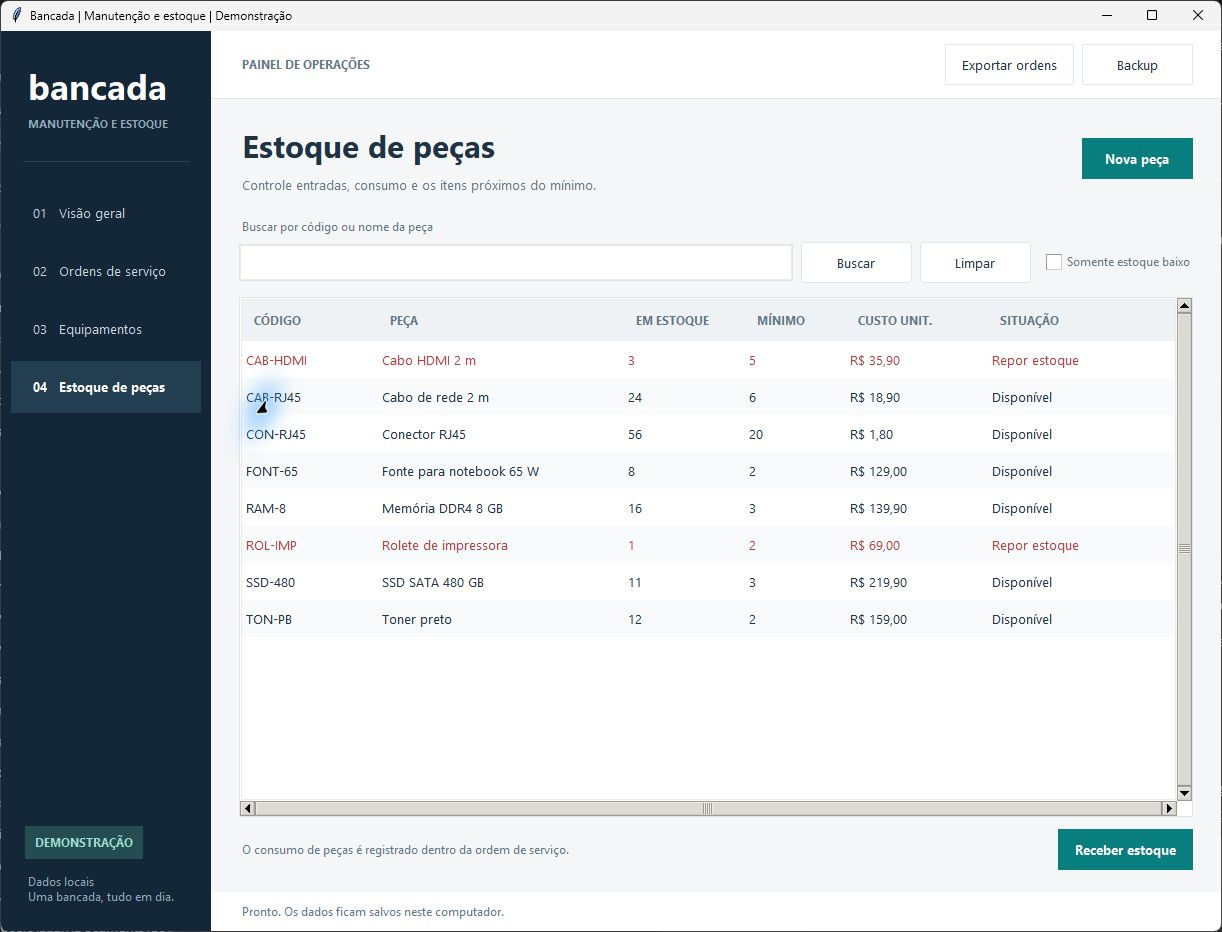
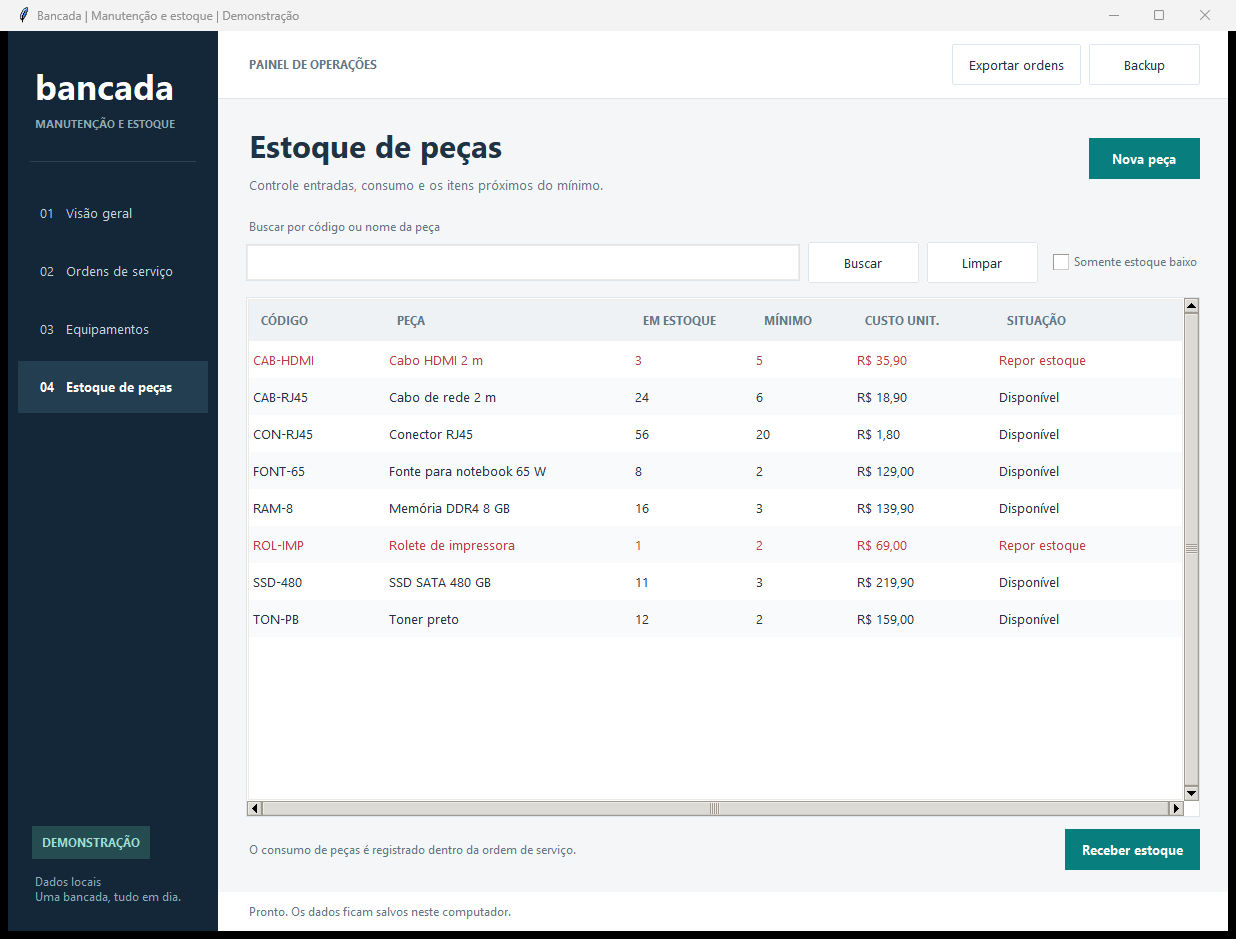
Adiciona GIF demonstrativo, novos prints das funcionalidades e atualiza README

diff --git a/README.md b/README.md
@@ -1,65 +1,142 @@
-# Bancada
+# 🛠 Bancada
 
-Gestão de manutenção de equipamentos com Python, SQLite e interface desktop. O projeto acompanha o atendimento desde a abertura da ordem até a resolução, incluindo peças utilizadas, movimentação de estoque e custos.
+[![Testes Python](https://github.com/LuanVictorz/bancada-python-sql/actions/workflows/tests.yml/badge.svg)](https://github.com/LuanVictorz/bancada-python-sql/actions)
+![Python 3.11+](https://img.shields.io/badge/Python-3.11%2B-3776AB?logo=python&logoColor=white)
+![SQLite](https://img.shields.io/badge/Banco-SQLite-003B57?logo=sqlite&logoColor=white)
+![Tkinter](https://img.shields.io/badge/Interface-Tkinter%20Desktop-203345)
+![Status](https://img.shields.io/badge/Status-Finalizado-087F7E)
 
-![Visão geral do Bancada com dados fictícios](docs/imagens/visao-geral.png)
+Gestão de manutenção de equipamentos com Python, SQLite e interface desktop. O projeto acompanha o ciclo de vida completo do atendimento — desde a abertura do chamado com SLA/prazo dinâmico até a resolução —, incluindo consumo e devolução de peças, histórico de auditoria e cálculo de custos.
 
-## O que dá para fazer
+![Demonstração do Bancada em Ação](docs/imagens/demonstracao-bancada.gif)
 
-- Cadastrar equipamentos, técnicos e peças.
-- Abrir ordens com prioridade e prazo de atendimento.
-- Iniciar, anotar, concluir ou cancelar uma ordem.
-- Registrar consumo e devolução de peças com atualização do estoque.
-- Consultar indicadores, custos e histórico de cada atendimento.
-- Exportar ordens para CSV e criar uma cópia consistente do banco.
+---
 
-O SQL está no modelo relacional, nas consultas de análise e nas operações da aplicação. O consumo de uma peça, a atualização do estoque e o registro no histórico fazem parte da mesma transação.
+## 📸 Demonstração das Funcionalidades
 
-## Executar
+### 1. Gestão de Ordens de Serviço (OS)
 
-Requisitos: Python 3.11 ou superior, com Tkinter. No Windows, a instalação padrão do Python inclui Tkinter e SQLite. Não há pacotes externos para instalar.
+O fluxo de ordens de serviço centraliza o diagnóstico, prazos e custos:
 
-Extraia o projeto, abra o terminal nessa pasta e execute:
+* **Fila de Atendimento e Filtros:** Lista todas as ordens com status (*Aberta*, *Em andamento*, *Concluída*, *Cancelada*), prioridade (*Alta*, *Média*, *Baixa*) e destaque em vermelho para chamados com prazo vencido.
+* **Criação de Novas Ordens:** O prazo de conclusão é calculado automaticamente de acordo com o nível de prioridade (Alta: 24h, Média: 72h, Baixa: 168h). É possível vincular o equipamento e o responsável técnico na abertura.
+
+![Lista de Ordens de Serviço](docs/imagens/ordens-servico.png)
+
+![Abertura de Nova Ordem de Serviço](docs/imagens/nova-ordem.png)
+
+#### Detalhes do Atendimento, Peças e Histórico:
+Ao abrir qualquer ordem, uma janela modal fornece visão em três abas completas:
+1. **Atendimento:** Informações do ativo, técnico responsável, datas, notas operacionais e botões para transição de status (*Iniciar atendimento*, *Adicionar nota*, *Concluir*, *Cancelar*).
+2. **Peças Utilizadas:** Registro de peças consumidas no atendimento. O sistema debita o saldo do estoque e recalcula instantaneamente o custo total da OS. Caso uma peça não seja usada, o botão *Devolver peça* restaura o saldo e abate o valor da ordem.
+3. **Histórico:** Trilha de eventos imutável registrando cada ação, troca de status e movimentação com data/hora.
+
+![Detalhes da Ordem - Aba Atendimento](docs/imagens/os-detalhes-atendimento.png)
+
+![Detalhes da Ordem - Aba Peças Utilizadas](docs/imagens/os-detalhes-pecas.png)
+
+![Detalhes da Ordem - Aba Histórico de Eventos](docs/imagens/os-detalhes-historico.png)
+
+---
+
+### 2. Controle de Estoque de Peças
+
+Controle de estoque relacional integrado diretamente com as ordens de manutenção:
+
+* **Alertas Visuais:** Indicação automática de *Repor estoque* em vermelho quando o saldo físico atinge ou fica abaixo do estoque mínimo definido.
+* **Cadastro de Peças:** Código SKU único, descrição, nível de estoque mínimo para disparo de alertas e custo unitário de referência.
+* **Receber Estoque:** Registro de entradas de reposição com quantidade, custo unitário atualizado e anotação de origem (nota fiscal ou fornecedor).
+
+![Estoque de Peças com Alertas](docs/imagens/estoque.png)
+
+![Cadastro de Nova Peça no Estoque](docs/imagens/nova-peca.png)
+
+![Registro de Entrada / Recebimento de Peças](docs/imagens/receber-estoque.png)
+
+---
+
+### 3. Gestão de Equipamentos e Ativos
+
+Mapeamento do parque de equipamentos atendidos pela bancada:
+
+* **Identificação Única:** Código de patrimônio/tag (ex: `NB-014`, `SRV-008`), nome, categoria e localização física (setor, sala ou rack).
+* **Controle de Disponibilidade:** Ativos inativos não podem receber novas ordens de serviço. Equipamentos com ordens em aberto não podem ser desativados acidentalmente.
+* **Acesso Rápido:** Botão direto para disparar uma nova ordem a partir do equipamento selecionado.
+
+![Listagem de Equipamentos](docs/imagens/equipamentos.png)
+
+![Cadastro de Novo Equipamento](docs/imagens/novo-equipamento.png)
+
+---
+
+### 4. Painel de Indicadores e Relatórios (Visão Geral)
+
+* **Cartões de Métricas:** Contagem de ordens ativas, chamados em atraso, itens em estoque crítico e custo total acumulado de ordens concluídas.
+* **Gráficos e Ranking:** Evolução mensal de atendimentos nos últimos seis meses e ranking dos equipamentos com maior custo de manutenção.
+* **Exportação e Backup:** Exportação de todas as ordens para arquivo `.csv` formatado e criação de cópia consistente do banco SQLite (`.sqlite3`) sem interromper a operação.
+
+![Visão Geral do Painel](docs/imagens/visao-geral.png)
+
+---
+
+## 🚀 Como Executar
+
+### Pré-requisitos
+* **Python 3.11 ou superior** com suporte a Tkinter (incluso por padrão na instalação oficial do Python para Windows).
+* Não há dependências externas nem necessidade de criar ambientes virtuais com `pip`.
+
+### Executando com Dados de Demonstração
+Para explorar o sistema com uma base de teste completa (12 equipamentos, 4 técnicos, 8 peças e 35 ordens pré-cadastradas):
 
 ```powershell
 python main.py --demo
 ```
 
-Isso abre a aplicação com dados fictícios. Na primeira execução são criados 12 equipamentos, 4 técnicos, 8 peças e 35 ordens. A demonstração mantém suas alterações nas próximas aberturas.
-
-Para iniciar com uma base vazia:
+### Executando em Modo Produção (Base Vazia)
+Para começar a cadastrar seus próprios dados a partir do zero:
 
 ```powershell
 python main.py
 ```
 
-No Windows, também é possível usar `executar.cmd` ou `executar.cmd --demo`. As duas bases ficam separadas na pasta `dados`.
+*Dica no Windows:* Você também pode simplesmente dar duplo clique em `executar.cmd` ou rodar `executar.cmd --demo`. Os arquivos do banco de dados ficam salvos de forma isolada na pasta `dados/`.
 
-## Testes
+---
+
+## 🧪 Testes Automatizados
+
+O projeto possui **58 testes automatizados** cobrindo integridade de banco de dados, transações atômicas, cálculos financeiros e regras de negócio da interface.
+
+Para rodar a suíte completa de testes no terminal:
 
 ```powershell
 python -m unittest discover -s tests -v
+```
+
+Para validar a integridade da base de dados sem abrir a janela:
+
+```powershell
 python main.py --demo --check
 ```
 
-A primeira instrução testa as regras com bases temporárias. A segunda confere a integridade da base de demonstração sem abrir a janela. O [registro de validação](docs/VALIDACAO.md) descreve os ambientes e as verificações executadas.
+*(O repositório inclui um pipeline no GitHub Actions que executa automaticamente todos os testes em ambientes Ubuntu e Windows para as versões 3.11, 3.12 e 3.14 do Python).*
 
-São 58 testes automatizados. O repositório também inclui um fluxo de GitHub Actions para repeti-los após a publicação.
+---
 
-## Decisões do projeto
+## 🏛 Decisões Técnicas e Arquitetura
 
-- **Dinheiro em centavos:** evita cálculos monetários com ponto flutuante.
-- **Custo registrado no consumo:** uma nova compra não altera o custo de ordens antigas.
-- **Transações explícitas:** uma falha não deixa estoque e ordem em situações diferentes.
-- **Regras fora da interface:** a janela usa a mesma camada de serviço dos testes e da demonstração.
-- **Histórico por ordem:** registra abertura, atendimento, peças, notas e encerramento.
+* **Dinheiro em Centavos:** Todos os valores monetários são representados como números inteiros em centavos no SQLite e nos cálculos, eliminando imprecisões de arredondamento inerentes a números de ponto flutuante (*floating point*).
+* **Histórico de Custo no Consumo:** Ao consumir uma peça em uma OS, o custo unitário vigente no momento é gravado de forma imutável na transação. Compras futuras com valores diferentes não distorcem o custo real de ordens já fechadas.
+* **Transações Atômicas (ACID):** O consumo de uma peça, a baixa no estoque e o registro do evento no histórico são executados sob a mesma transação com `BEGIN IMMEDIATE`. Caso ocorra qualquer falha, o sistema executa *rollback* automático.
+* **Camada de Serviço Desacoplada:** Toda a regra de negócio reside na camada `Service` (`app/service.py`), permitindo que a interface gráfica e a suíte de testes consumam exatamente os mesmos métodos.
+* **Rastreabilidade Total:** A tabela `os_historico` armazena cada mudança de status, anotação técnica e movimentação com data/hora.
 
-## Documentação
+---
 
-- [Primeira execução e exemplo completo](docs/USO.md)
-- [Modelo do banco e decisões de implementação](docs/ARQUITETURA.md)
-- [Consultas de análise](sql/reports.sql)
-- [Roteiro para estudar e modificar](docs/ESTUDO.md)
-- [Como publicar no GitHub](docs/PUBLICAR.md)
+## 📚 Documentação Complementar
 
-Esta versão é local, sem login nem sincronização entre computadores. O histórico ajuda a acompanhar as operações, mas não é uma trilha de auditoria inviolável. Não é recomendado guardar dados sensíveis ou usar uma pasta de rede para o banco. Os prazos são contados em horas corridas.
+* [Guia de Uso Passo a Passo](docs/USO.md)
+* [Arquitetura e Modelo Entidade-Relacionamento](docs/ARQUITETURA.md)
+* [Consultas Analíticas em SQL](sql/reports.sql)
+* [Roteiro de Estudos e Modificações](docs/ESTUDO.md)
+* [Validação e Cobertura dos Ambientes](docs/VALIDACAO.md)
